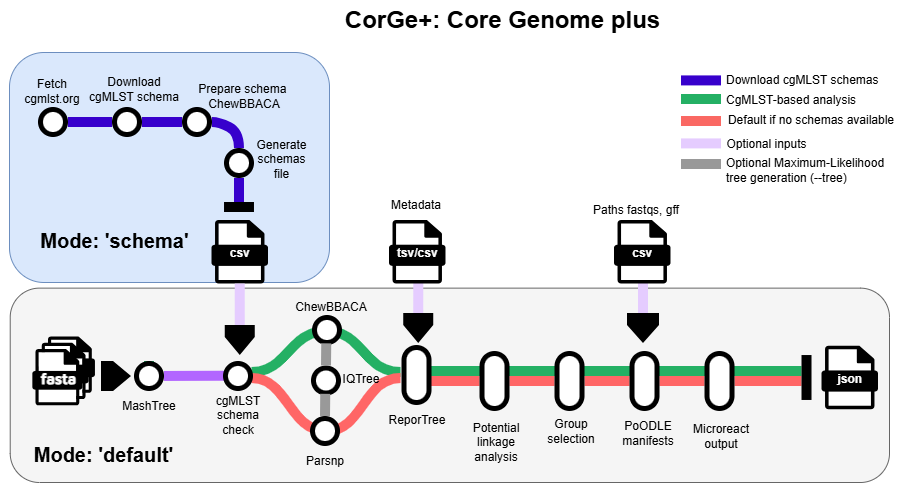
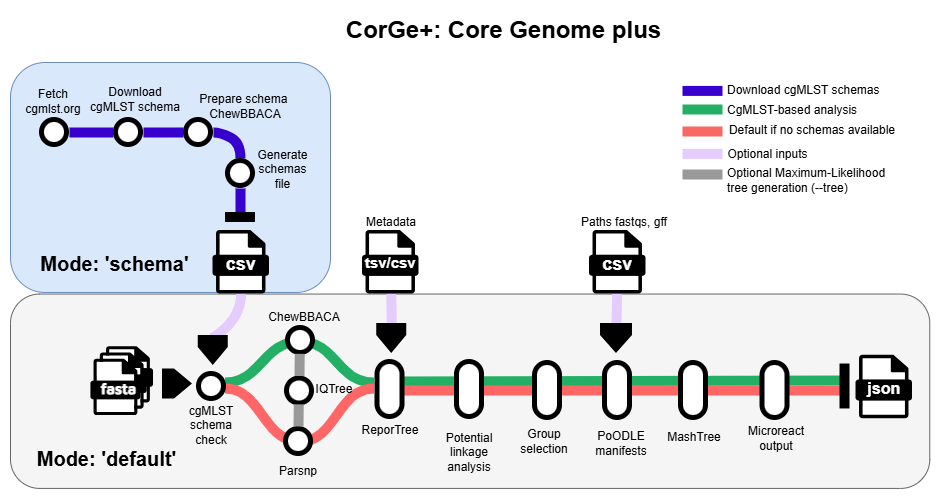
updated workflow

Changed region(s): [[0.0, 0.0932, 0.9967, 1.0], [0.7164, 0.1553, 0.9967, 0.4037], [0.3737, 0.0, 0.7475, 0.0932]]

diff --git a/README.md b/README.md
@@ -33,13 +33,13 @@
 
 High-level steps:
 
-1. Run [`MashTree`](https://github.com/lskatz/mashtree).
-2. Verify cgMLST schema availability for each species.
-3. Perform core genome analysis using [`ChewBBACA`](https://github.com/B-UMMI/chewBBACA) (cgMLST) or [`Parsnp`](https://github.com/marbl/parsnp) (core alignment if schema unavailable).
-4. Hierarchical clustering with [`ReporTree`](https://github.com/insapathogenomics/ReporTree).
-5. Create potential linkage tables per species.
-6. Select groups per sample using user-defined thresholds.
-7. Generate [`PoODLE`](https://github.com/MDHHS-Bioinformatics/poodle) manifests.
+1. Verify cgMLST schema availability for each species.
+2. Perform core genome analysis using [`ChewBBACA`](https://github.com/B-UMMI/chewBBACA) (cgMLST) or [`Parsnp`](https://github.com/marbl/parsnp) (core alignment if schema unavailable).
+3. Hierarchical clustering with [`ReporTree`](https://github.com/insapathogenomics/ReporTree).
+4. Create potential linkage tables per species.
+5. Select groups per sample using user-defined thresholds.
+6. Generate [`PoODLE`](https://github.com/MDHHS-Bioinformatics/poodle) manifests.
+7. Run [`MashTree`](https://github.com/lskatz/mashtree).
 8. Generate [`Microreact`](https://microreact.org/) files for visual exploration of genomic groups in trees.
 
 Full workflow details: [`Worflow documentation`](docs/workflow.md)